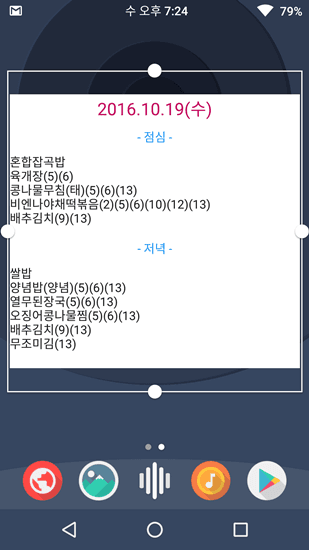
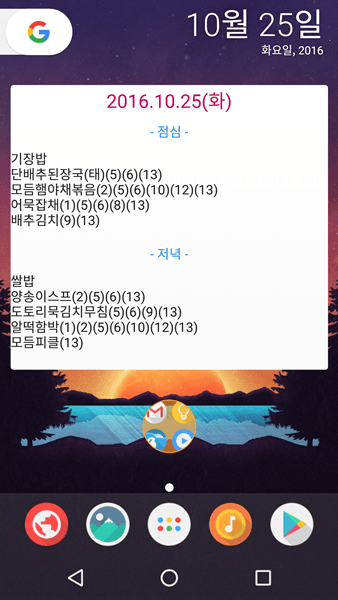
Widget

diff --git a/index.html b/index.html
@@ -94,7 +94,7 @@
                         <img class="activator" src="img/ts.png">
                     </div>
                     <div class="card-content">
-                        <span class="card-title activator grey-text text-darken-4">태성고 앱<a class="grey-text text-darken-4 mdi mdi-dots-vertical">v3.62 - 20161014</a></span>
+                        <span class="card-title activator grey-text text-darken-4">태성고 앱<a class="grey-text text-darken-4 mdi mdi-dots-vertical">v3.63 - 20161028</a></span>
                         <p><a target="_blank" class="mdi mdi-shopping-music" href="https://play.google.com/store/apps/details?id=com.csw.taesung.high.schooltwo">PlayStore</a></p>
                     </div>
 					<div class="card-reveal">
@@ -108,7 +108,7 @@
 						<div class="waves-effect waves-light card-image">
                             <img class="activator" src="img/ts_notify.png">
                         </div>
-						<b><p>&#9956; 런쳐 급식 위젯</p></b>
+						<b><p>&#9956; 런쳐 급식 위젯 (4x4)</p></b>
 						<div class="waves-effect waves-light card-image">
                             <img class="activator" src="img/ts_widget.png">
                         </div>
